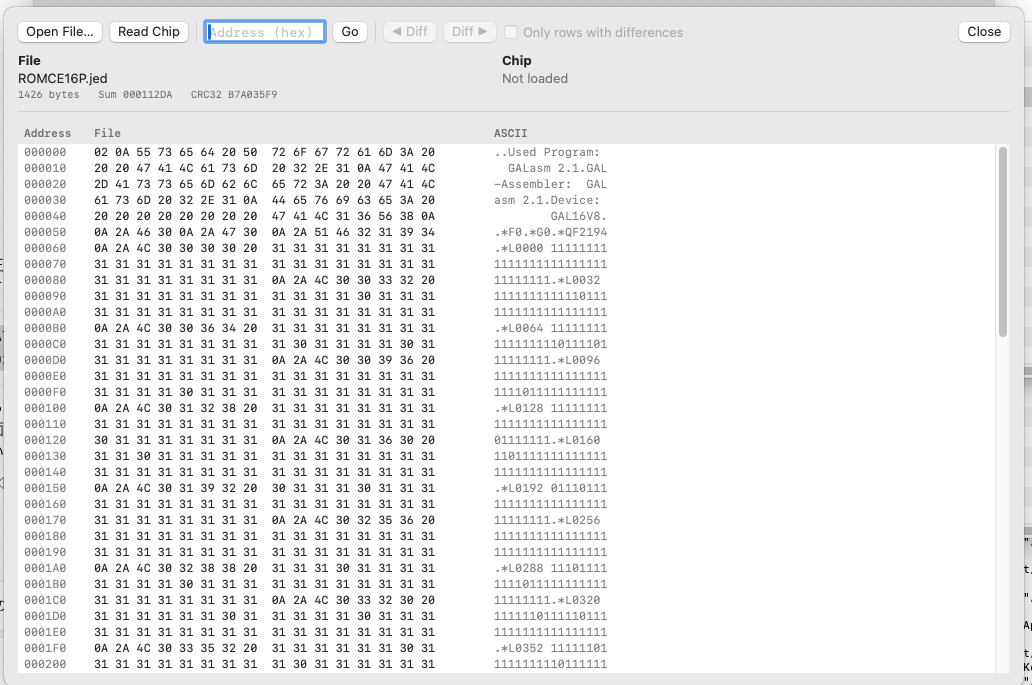
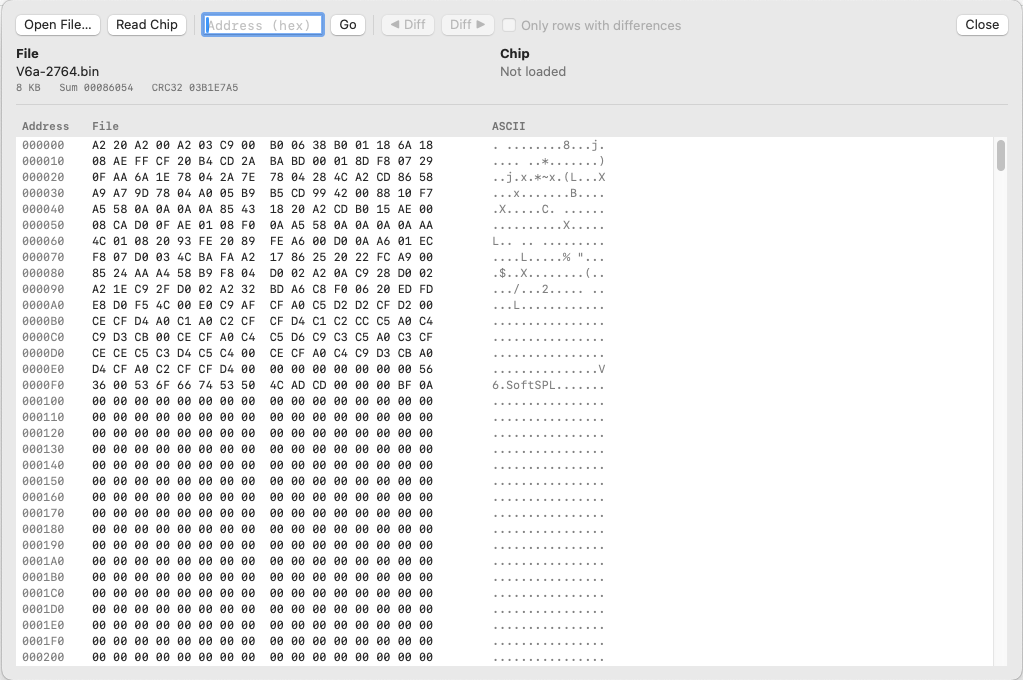
Use a ROM image for the Hex View screenshot
Claude-Session: https://claude.ai/code/session_01TzK8yppmMLch9aiwp417RL

diff --git a/README.md b/README.md
@@ -26,7 +26,7 @@ Drop more than one file and they get written in order, one chip each. After ever
 
 ## Hex View
 
-![Hex View with a GAL16V8 JEDEC file loaded](docs/hex-view.png)
+![Hex View with a 2764 ROM image loaded](docs/hex-view.png)
 
 This is the part I use most. Hex View loads the file, reads the chip in the socket, and puts them side by side with every byte that doesn't match in red. Use the Diff arrows to jump between mismatches, or tick "Only rows with differences".
 
